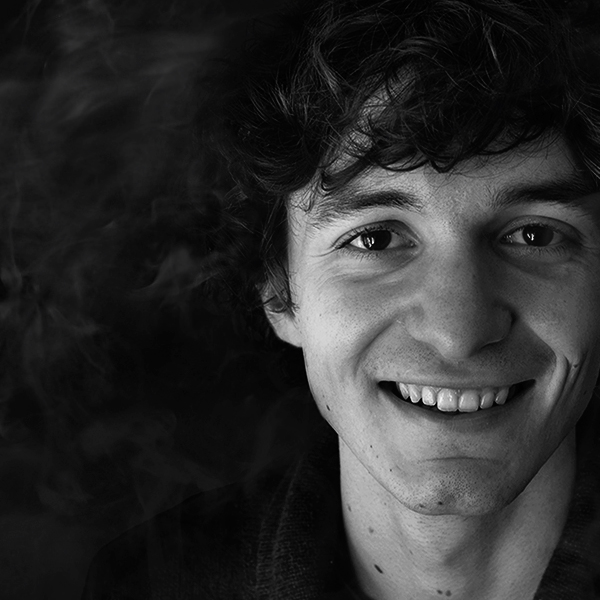
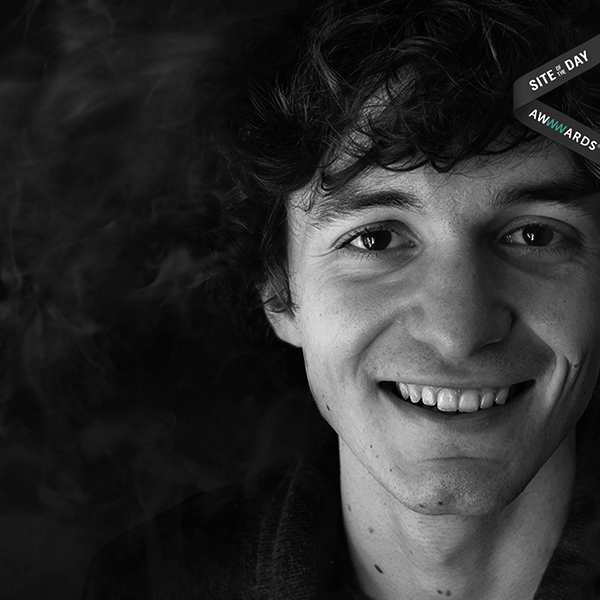
Update after awwwards SOTD

Changed region(s): [[0.84, 0.06, 1.0, 0.27]]

diff --git a/src/components/ProjectInfos/index.jsx b/src/components/ProjectInfos/index.jsx
@@ -85,7 +85,7 @@ class ProjectLetters extends Component {
 
     this.tl
       .set(this.transitionBlock, {transformOrigin: config.startOrigin})
-      .to(this.transitionBlock, 0.5, {scaleX: 1, ease: Back.easeOut.config(0.7)})
+      .to(this.transitionBlock, 0.45, {scaleX: 1, ease: Expo.easeOut})
       .addCallback(()=>{
         for (let i = 0; i < this.projectInfoEls.length; i++) {
           this.projectInfoEls[i].className = "project-infos__el";
